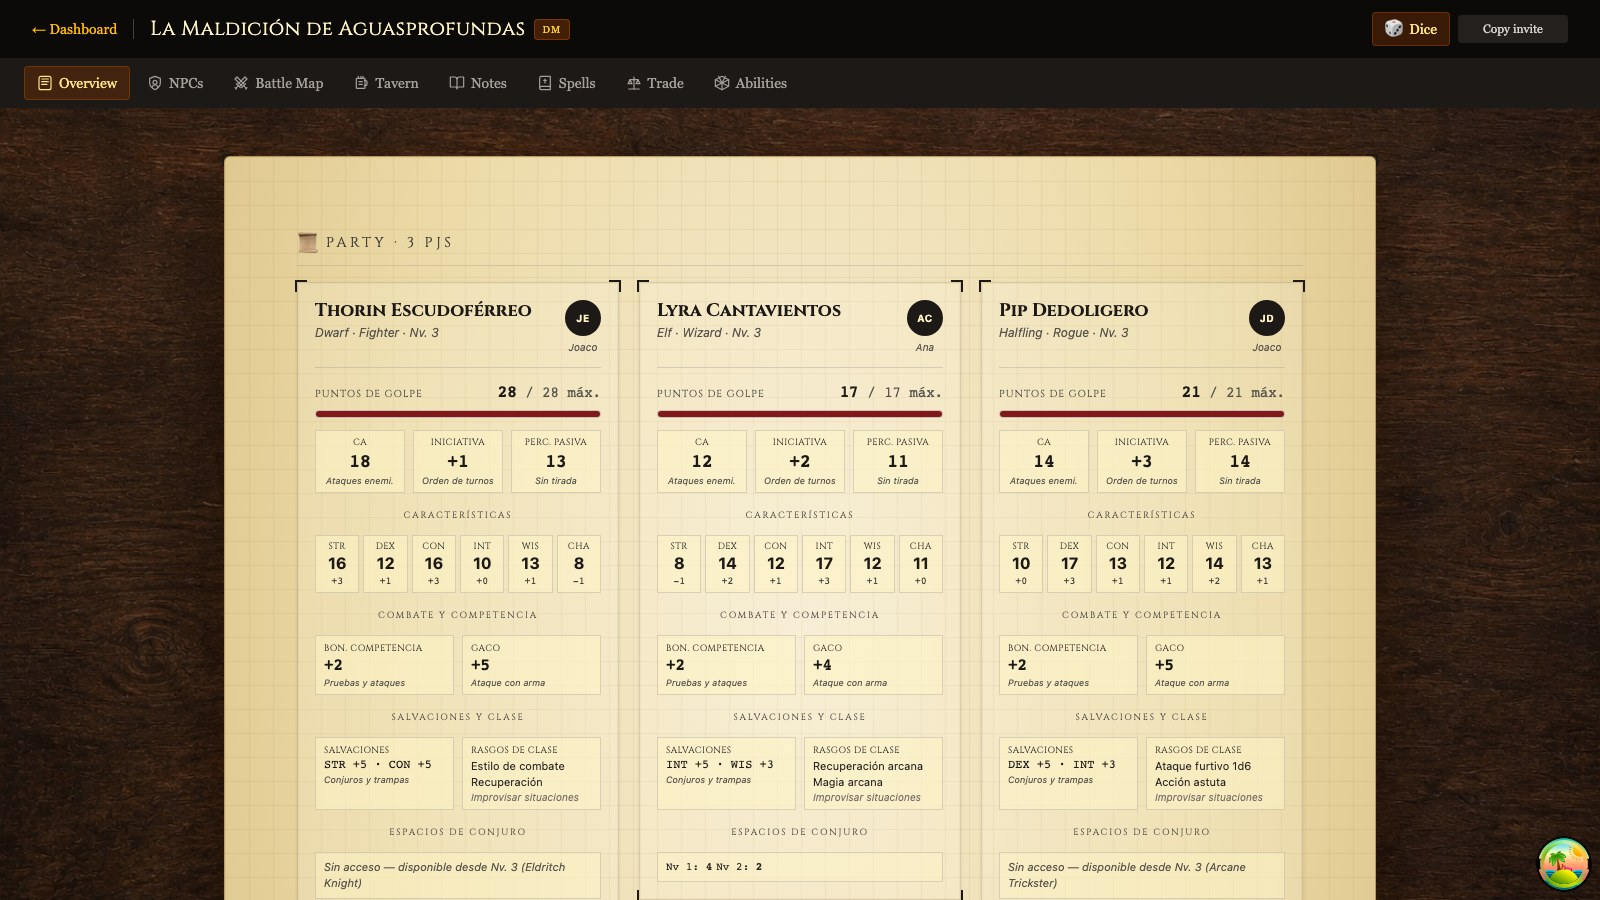
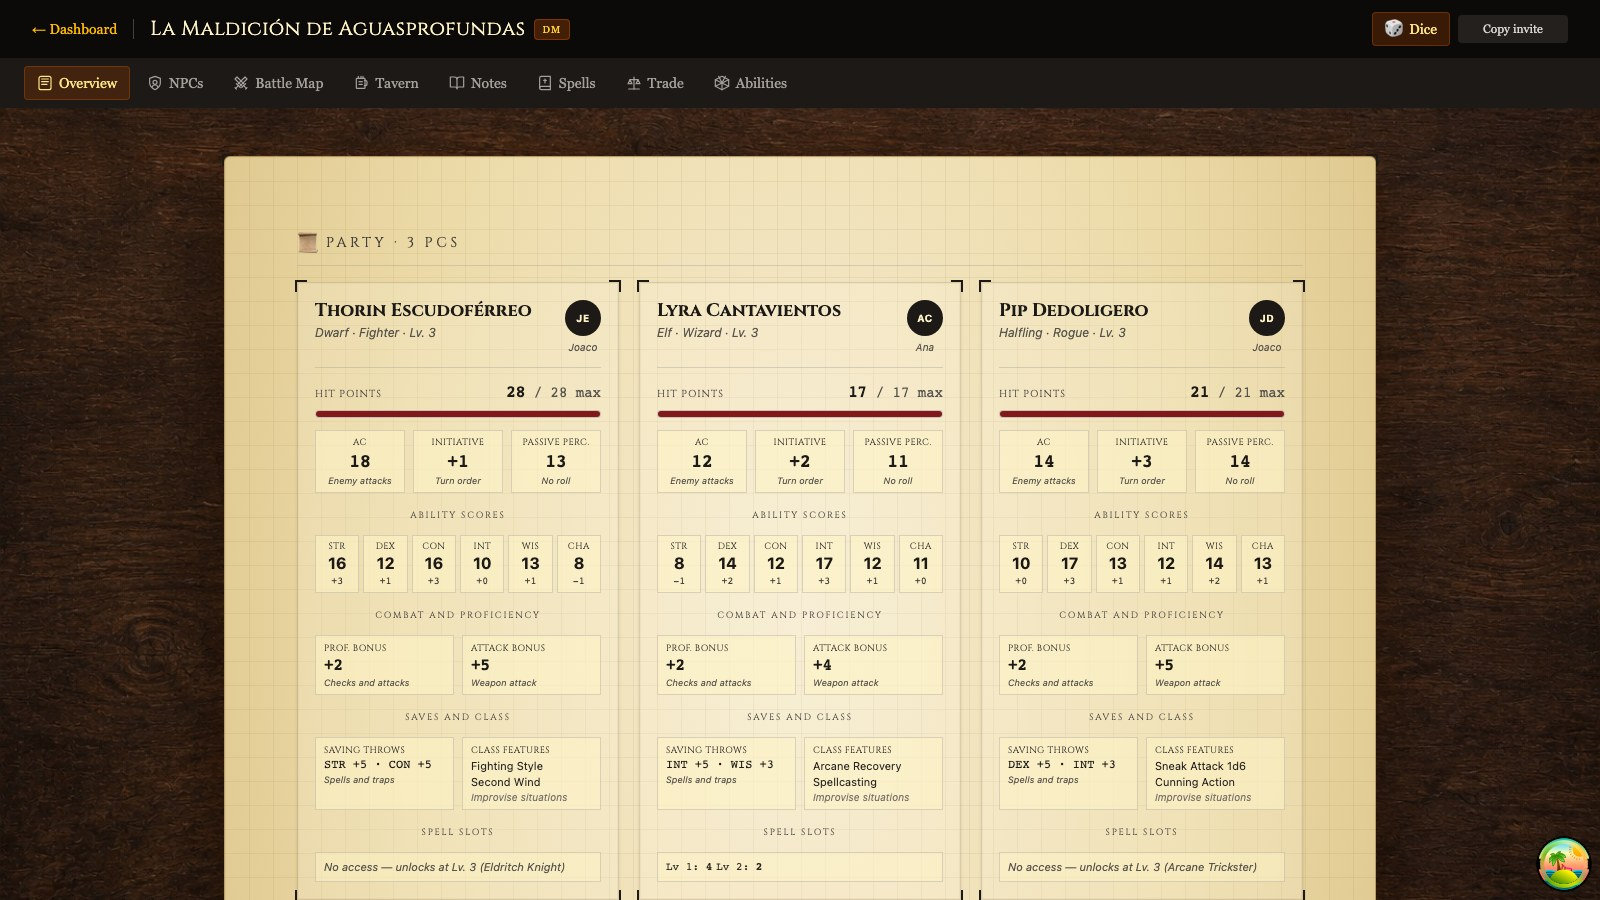
feat(i18n): traducir la vista de party de campana
Las tarjetas de party eran la pantalla mas grande que quedaba sin
traducir: puntos de golpe, CA, iniciativa, percepcion pasiva, bonos,
salvaciones, rasgos de clase y espacios de conjuro.

Los dos rasgos de nivel 1 de cada clase pasan a dnd-terms como contenido
Localized, junto a las razas y las clases.

diff --git a/src/components/campaigns/hub-cards.tsx b/src/components/campaigns/hub-cards.tsx
@@ -5,6 +5,8 @@ import { CLASS_ICONS } from '../../lib/class-meta'
 import type { Tables } from '../../lib/database.types'
 import { Frame, Divider, BlockHeader, StatBox, InfoBox } from './hub-primitives'
 import { BACKGROUNDS } from '../../lib/dnd-backgrounds'
+import { useI18n } from '../../i18n'
+import { CLASS_BASE_FEATURES, CLASS_NAMES, RACE_NAMES, localizedTerm } from '../../lib/dnd-terms'
 
 export type Character = {
   id: string
@@ -30,25 +32,10 @@ export type Character = {
 
 const STAT_KEYS = ['str', 'dex', 'con', 'int', 'wis', 'cha'] as const
 
-const CLASS_BASE_FEATURES: Record<string, string[]> = {
-  barbarian: ['Rabia', 'Defensa sin armadura'],
-  bard: ['Inspiración bárdica', 'Magia bárdica'],
-  cleric: ['Magia divina', 'Dominio divino'],
-  druid: ['Magia druídica', 'Druídico'],
-  fighter: ['Estilo de combate', 'Recuperación'],
-  monk: ['Defensa sin armadura', 'Artes marciales'],
-  paladin: ['Sentido divino', 'Imposición de manos'],
-  ranger: ['Favored Enemy', 'Natural Explorer'],
-  rogue: ['Ataque furtivo 1d6', 'Acción astuta'],
-  sorcerer: ['Hechicería', 'Magia espontánea'],
-  warlock: ['Magia de pacto', 'Patrón otherworldly'],
-  wizard: ['Recuperación arcana', 'Magia arcana'],
-}
-
-const ROLE_STYLES: Record<string, { label: string; chip: string }> = {
-  antagonist: { label: 'Antagonista', chip: 'bg-red-900/30 border-red-800/40 text-red-900' },
-  ally: { label: 'Aliado', chip: 'bg-green-900/20 border-green-800/40 text-green-900' },
-  neutral: { label: 'Neutral', chip: 'bg-stone-200 border-stone-400 text-stone-700' },
+const ROLE_STYLES: Record<string, { labelKey: 'npc.roleAntagonist' | 'npc.roleAlly' | 'npc.roleNeutral'; chip: string }> = {
+  antagonist: { labelKey: 'npc.roleAntagonist', chip: 'bg-red-900/30 border-red-800/40 text-red-900' },
+  ally: { labelKey: 'npc.roleAlly', chip: 'bg-green-900/20 border-green-800/40 text-green-900' },
+  neutral: { labelKey: 'npc.roleNeutral', chip: 'bg-stone-200 border-stone-400 text-stone-700' },
 }
 
 const abilityMod = (score: number) => Math.floor((score - 10) / 2)
@@ -56,6 +43,7 @@ const formatMod = (mod: number) => (mod >= 0 ? `+${mod}` : `${mod}`)
 const profBonusForLevel = (level: number) => Math.floor((level - 1) / 4) + 2
 
 export function PartyMemberCard({ character }: { character: Character }) {
+  const { t, locale } = useI18n()
   const { stats, level, class: cls, sheet_json: sheet } = character
   const conMod = Math.floor(((stats.con ?? 10) - 10) / 2)
   const hitDie = sheet.hit_die ?? 8
@@ -69,7 +57,7 @@ export function PartyMemberCard({ character }: { character: Character }) {
         <div className="flex items-center justify-between gap-2">
           <div>
             <h3 className="text-base font-display font-bold text-stone-900 leading-tight">{character.name}</h3>
-            <p className="text-xs italic text-stone-600 capitalize">{character.race} · {cls} · Nv. {level}</p>
+            <p className="text-xs italic text-stone-600 capitalize">{localizedTerm(RACE_NAMES, character.race, locale)} · {localizedTerm(CLASS_NAMES, cls, locale)} · {t('common.levelShort')} {level}</p>
           </div>
           <p className="text-[11px] text-stone-500 italic shrink-0">{character.profiles?.username ?? 'Jugador'}</p>
         </div>
@@ -88,6 +76,7 @@ export function PartyMemberCard({ character }: { character: Character }) {
 }
 
 export function NpcLandingCard({ npc, campaignId }: { npc: Tables<'npcs'>; campaignId: string }) {
+  const { t, locale } = useI18n()
   const stats = npc.stats as Record<string, number> | null
   const role = ROLE_STYLES[npc.role] ?? ROLE_STYLES.neutral
   const icon = npc.class ? CLASS_ICONS[npc.class] ?? '👤' : '👤'
@@ -102,7 +91,7 @@ export function NpcLandingCard({ npc, campaignId }: { npc: Tables<'npcs'>; campa
           <div className="flex items-start justify-between gap-2">
             <div className="min-w-0">
               <span className={`inline-block text-[10px] font-serif tracking-wide px-2 py-0.5 border ${role.chip} mb-1`}>
-                {role.label}
+                {t(role.labelKey)}
               </span>
               {npc.is_hidden && (
                 <span className="ml-1 inline-block text-[10px] font-serif tracking-wide px-2 py-0.5 border border-stone-700 text-stone-700 bg-stone-200 mb-1">
@@ -112,7 +101,7 @@ export function NpcLandingCard({ npc, campaignId }: { npc: Tables<'npcs'>; campa
               <h3 className="text-lg font-display font-bold text-stone-900 leading-tight truncate">{npc.name}</h3>
               {(npc.race || npc.class) && (
                 <p className="text-xs italic text-stone-600 capitalize">
-                  {[npc.race, npc.class, `Nv. ${npc.level}`].filter(Boolean).join(' · ')}
+                  {[localizedTerm(RACE_NAMES, npc.race, locale), localizedTerm(CLASS_NAMES, npc.class, locale), `${t('common.levelShort')} ${npc.level}`].filter(Boolean).join(' · ')}
                 </p>
               )}
             </div>
@@ -165,6 +154,7 @@ export function NpcLandingCard({ npc, campaignId }: { npc: Tables<'npcs'>; campa
 }
 
 export function CharacterCard({ character, isOwn }: { character: Character; isOwn: boolean }) {
+  const { t, loc, locale } = useI18n()
   const { stats, sheet_json: sheet, level, class: cls } = character
 
   const dexMod = abilityMod(stats.dex ?? 10)
@@ -221,14 +211,14 @@ export function CharacterCard({ character, isOwn }: { character: Character; isOw
             <div className="min-w-0">
               <h3 className="text-lg font-display font-bold text-stone-900 leading-tight truncate">{character.name}</h3>
               <p className="text-xs italic text-stone-600 capitalize mt-0.5">
-                {character.race} · {cls} · Nv. {level}
+                {localizedTerm(RACE_NAMES, character.race, locale)} · {localizedTerm(CLASS_NAMES, cls, locale)} · {t('common.levelShort')} {level}
               </p>
             </div>
             <div className="flex flex-col items-center shrink-0">
               <div className="w-9 h-9 rounded-full bg-stone-900 text-amber-100 flex items-center justify-center text-[10px] font-bold tracking-wider">
                 {initials}
               </div>
-              <p className="text-[10px] text-stone-600 mt-1 italic">{isOwn ? 'tu PJ' : playerName ?? 'Jugador'}</p>
+              <p className="text-[10px] text-stone-600 mt-1 italic">{isOwn ? t('party.yourCharacter') : playerName ?? t('party.player')}</p>
             </div>
           </div>
 
@@ -236,10 +226,10 @@ export function CharacterCard({ character, isOwn }: { character: Character; isOw
 
           <div>
             <div className="flex items-baseline justify-between mb-1.5">
-              <p className="text-[10px] font-display tracking-widest text-stone-600 uppercase">Puntos de Golpe</p>
+              <p className="text-[10px] font-display tracking-widest text-stone-600 uppercase">{t('party.hitPoints')}</p>
               <p className="text-sm font-mono">
                 <span className="text-base font-bold text-stone-900">{currentHp}</span>
-                <span className="text-stone-600"> / {maxHp} máx.</span>
+                <span className="text-stone-600"> / {maxHp} {t('party.max')}</span>
               </p>
             </div>
             <div className="h-2 bg-stone-300/60 rounded-sm overflow-hidden border border-stone-400/40">
@@ -251,12 +241,12 @@ export function CharacterCard({ character, isOwn }: { character: Character; isOw
           </div>
 
           <div className="grid grid-cols-3 gap-2">
-            <StatBox label="CA" value={ac} caption="Ataques enemi." />
-            <StatBox label="Iniciativa" value={formatMod(dexMod)} caption="Orden de turnos" />
-            <StatBox label="Perc. Pasiva" value={passivePerception} caption="Sin tirada" />
+            <StatBox label={t('party.ac')} value={ac} caption={t('party.acCaption')} />
+            <StatBox label={t('party.initiative')} value={formatMod(dexMod)} caption={t('party.initiativeCaption')} />
+            <StatBox label={t('party.passivePerception')} value={passivePerception} caption={t('party.passiveCaption')} />
           </div>
 
-          <BlockHeader>Características</BlockHeader>
+          <BlockHeader>{t('party.abilities')}</BlockHeader>
           <div className="grid grid-cols-6 gap-1">
             {STAT_KEYS.map(k => {
               const score = stats[k] ?? 10
@@ -271,41 +261,41 @@ export function CharacterCard({ character, isOwn }: { character: Character; isOw
             })}
           </div>
 
-          <BlockHeader>Combate y competencia</BlockHeader>
+          <BlockHeader>{t('party.combatAndProficiency')}</BlockHeader>
           <div className="grid grid-cols-2 gap-2">
-            <InfoBox label="Bon. Competencia" value={formatMod(prof)} caption="Pruebas y ataques" />
-            <InfoBox label="GACO" value={formatMod(gaco)} caption="Ataque con arma" />
+            <InfoBox label={t('party.proficiencyBonus')} value={formatMod(prof)} caption={t('party.proficiencyCaption')} />
+            <InfoBox label={t('party.attackBonus')} value={formatMod(gaco)} caption={t('party.attackCaption')} />
           </div>
 
-          <BlockHeader>Salvaciones y clase</BlockHeader>
+          <BlockHeader>{t('party.savesAndClass')}</BlockHeader>
           <div className="grid grid-cols-2 gap-2">
-            <InfoBox label="Salvaciones" value={savings || '—'} caption="Conjuros y trampas" compact />
+            <InfoBox label={t('party.saves')} value={savings || '—'} caption={t('party.savesCaption')} compact />
             <InfoBox
-              label="Rasgos de Clase"
+              label={t('party.classFeatures')}
               value={
                 <div className="space-y-0.5">
                   {classFeatures.map(f => (
-                    <p key={f} className="text-[11px] leading-tight text-stone-800">{f}</p>
+                    <p key={f.en} className="text-[11px] leading-tight text-stone-800">{loc(f)}</p>
                   ))}
-                  <p className="text-[10px] italic text-stone-500 leading-tight">Improvisar situaciones</p>
+                  <p className="text-[10px] italic text-stone-500 leading-tight">{t('party.improvise')}</p>
                 </div>
               }
               compact
             />
           </div>
 
-          <BlockHeader>Espacios de Conjuro</BlockHeader>
+          <BlockHeader>{t('party.spellSlots')}</BlockHeader>
           {firstSlotLevel === -1 ? (
             <p className="text-[11px] italic text-stone-600 bg-amber-100/50 border border-stone-400/40 px-2 py-1.5">
-              Sin acceso{cls.toLowerCase() === 'rogue' ? ' — disponible desde Nv. 3 (Arcane Trickster)' : ''}
-              {cls.toLowerCase() === 'fighter' ? ' — disponible desde Nv. 3 (Eldritch Knight)' : ''}
+              {t('party.noSlots')}{cls.toLowerCase() === 'rogue' ? t('party.unlocksAt', { subclass: 'Arcane Trickster' }) : ''}
+              {cls.toLowerCase() === 'fighter' ? t('party.unlocksAt', { subclass: 'Eldritch Knight' }) : ''}
             </p>
           ) : (
             <div className="flex flex-wrap gap-1 bg-amber-100/50 border border-stone-400/40 px-2 py-1.5">
               {slots.map((count, idx) =>
                 count > 0 ? (
                   <span key={idx} className="text-[11px] font-mono text-stone-800">
-                    Nv {idx + 1}: <span className="font-bold">{count}</span>
+                    {t('party.slotLevel', { level: idx + 1 })} <span className="font-bold">{count}</span>
                   </span>
                 ) : null
               )}

diff --git a/src/routes/_authenticated/campaigns/$campaignId.index.tsx b/src/routes/_authenticated/campaigns/$campaignId.index.tsx
@@ -4,6 +4,7 @@ import type { Session } from '@supabase/supabase-js'
 import { supabase } from '../../../lib/supabase'
 import { Corner, SectionHeader, AddSlot } from '../../../components/campaigns/hub-primitives'
 import { type Character, CharacterCard, NpcLandingCard, PartyMemberCard } from '../../../components/campaigns/hub-cards'
+import { useT } from '../../../i18n'
 
 export const Route = createFileRoute('/_authenticated/campaigns/$campaignId/')({
   component: CampaignHubLanding,
@@ -67,21 +68,22 @@ function CampaignHubLanding() {
 }
 
 function GmView({ campaignId, characters, npcs }: { campaignId: string; characters: Character[]; npcs: any[] }) {
+  const t = useT()
   return (
     <main className="max-w-6xl mx-auto px-4 sm:px-8 py-8 space-y-10">
       <section>
-        <SectionHeader icon="📜" label={`Party · ${characters.length} PJ${characters.length !== 1 ? 's' : ''}`} />
+        <SectionHeader icon="📜" label={t('party.title', { count: characters.length })} />
         <div className="grid grid-cols-1 md:grid-cols-2 lg:grid-cols-3 gap-5">
           {characters.map(c => <CharacterCard key={c.id} character={c} isOwn={false} />)}
-          <AddSlot label="+ agregar personaje" hint="Compartí el invite con tu party" />
+          <AddSlot label={t('party.addCharacter')} hint="Compartí el invite con tu party" />
         </div>
       </section>
 
       <section>
-        <SectionHeader icon="😈" label={`PNJs · ${npcs.length}`} />
+        <SectionHeader icon="😈" label={t('party.npcs', { count: npcs.length })} />
         <div className="grid grid-cols-1 md:grid-cols-2 lg:grid-cols-3 gap-5">
           {npcs.map((npc: any) => <NpcLandingCard key={npc.id} npc={npc} campaignId={campaignId} />)}
-          <AddSlot label="+ generar PNJ" hint="Crea antagonistas, aliados y neutrales" to="/campaigns/$campaignId/pnj" params={{ campaignId }} />
+          <AddSlot label={t('party.generateNpc')} hint="Crea antagonistas, aliados y neutrales" to="/campaigns/$campaignId/pnj" params={{ campaignId }} />
         </div>
       </section>
     </main>
@@ -89,6 +91,7 @@ function GmView({ campaignId, characters, npcs }: { campaignId: string; characte
 }
 
 function PlayerView({ campaignId: _campaignId, characters, userId }: { campaignId: string; characters: Character[]; userId: string }) {
+  const t = useT()
   const myCharacter = characters.find(c => c.user_id === userId)
   const partyMembers = characters.filter(c => c.user_id !== userId)
 
@@ -96,13 +99,13 @@ function PlayerView({ campaignId: _campaignId, characters, userId }: { campaignI
     <main className="max-w-5xl mx-auto px-4 sm:px-8 py-8">
       <div className="flex gap-8 items-start">
         <div className="flex-1 min-w-0">
-          <SectionHeader icon="🧙" label="Mi Personaje" />
+          <SectionHeader icon="🧙" label={t('party.myCharacter')} />
           {myCharacter
             ? <CharacterCard character={myCharacter} isOwn />
             : (
               <div className="border-2 border-dashed border-stone-500/40 flex flex-col items-center justify-center min-h-[120px] text-center px-4 py-8">
-                <p className="text-sm italic font-serif text-stone-700">Todavía no tenés un personaje en esta campaña</p>
-                <p className="text-xs text-stone-500 mt-1.5">Pedile al DM que te comparta el invite</p>
+                <p className="text-sm italic font-serif text-stone-700">{t('party.noCharacter')}</p>
+                <p className="text-xs text-stone-500 mt-1.5">{t('party.askDmForInvite')}</p>
               </div>
             )
           }
@@ -110,7 +113,7 @@ function PlayerView({ campaignId: _campaignId, characters, userId }: { campaignI
 
         {partyMembers.length > 0 && (
           <div className="w-64 shrink-0">
-            <SectionHeader icon="📜" label={`Party · ${partyMembers.length}`} />
+            <SectionHeader icon="📜" label={t('party.title', { count: partyMembers.length })} />
             <div className="flex flex-col gap-3">
               {partyMembers.map(c => <PartyMemberCard key={c.id} character={c} />)}
             </div>

diff --git a/src/lib/dnd-terms.ts b/src/lib/dnd-terms.ts
@@ -65,6 +65,22 @@ export const CLASS_NAMES: Record<string, Localized> = {
   wizard: { es: 'Mago', en: 'Wizard' },
 }
 
+/** Los dos rasgos de nivel 1 de cada clase, para la vista rápida de party. */
+export const CLASS_BASE_FEATURES: Record<string, Localized[]> = {
+  barbarian: [{ es: 'Furia', en: 'Rage' }, { es: 'Defensa sin armadura', en: 'Unarmored Defense' }],
+  bard: [{ es: 'Inspiración bárdica', en: 'Bardic Inspiration' }, { es: 'Magia bárdica', en: 'Spellcasting' }],
+  cleric: [{ es: 'Magia divina', en: 'Spellcasting' }, { es: 'Dominio divino', en: 'Divine Domain' }],
+  druid: [{ es: 'Magia druídica', en: 'Spellcasting' }, { es: 'Druídico', en: 'Druidic' }],
+  fighter: [{ es: 'Estilo de combate', en: 'Fighting Style' }, { es: 'Recuperación', en: 'Second Wind' }],
+  monk: [{ es: 'Defensa sin armadura', en: 'Unarmored Defense' }, { es: 'Artes marciales', en: 'Martial Arts' }],
+  paladin: [{ es: 'Sentido divino', en: 'Divine Sense' }, { es: 'Imposición de manos', en: 'Lay on Hands' }],
+  ranger: [{ es: 'Enemigo predilecto', en: 'Favored Enemy' }, { es: 'Explorador natural', en: 'Natural Explorer' }],
+  rogue: [{ es: 'Ataque furtivo 1d6', en: 'Sneak Attack 1d6' }, { es: 'Acción astuta', en: 'Cunning Action' }],
+  sorcerer: [{ es: 'Hechicería', en: 'Spellcasting' }, { es: 'Origen de hechicería', en: 'Sorcerous Origin' }],
+  warlock: [{ es: 'Magia de pacto', en: 'Pact Magic' }, { es: 'Patrón de otro mundo', en: 'Otherworldly Patron' }],
+  wizard: [{ es: 'Recuperación arcana', en: 'Arcane Recovery' }, { es: 'Magia arcana', en: 'Spellcasting' }],
+}
+
 /**
  * Resuelve un nombre de raza o clase que puede venir como índice del SRD
  * (`half-orc`), como nombre ya formateado (`Half-Orc`) o como algo que no está

diff --git a/src/i18n/es.ts b/src/i18n/es.ts
@@ -463,6 +463,40 @@ export const es = {
   'npc.dmNotesLabel': 'Notas del DM (privadas):',
   'npc.confirmDelete': '¿Eliminar?',
   'npc.empty': 'Todavía no creaste ningún PNJ.',
+
+  'party.title': 'Party · {count} PJ',
+  'party.title_other': 'Party · {count} PJs',
+  'party.hitPoints': 'Puntos de golpe',
+  'party.max': 'máx.',
+  'party.ac': 'CA',
+  'party.acCaption': 'Ataques enemigos',
+  'party.initiative': 'Iniciativa',
+  'party.initiativeCaption': 'Orden de turnos',
+  'party.passivePerception': 'Perc. pasiva',
+  'party.passiveCaption': 'Sin tirada',
+  'party.abilities': 'Características',
+  'party.combatAndProficiency': 'Combate y competencia',
+  'party.proficiencyBonus': 'Bon. competencia',
+  'party.proficiencyCaption': 'Pruebas y ataques',
+  'party.attackBonus': 'GACO',
+  'party.attackCaption': 'Ataque con arma',
+  'party.savesAndClass': 'Salvaciones y clase',
+  'party.saves': 'Salvaciones',
+  'party.savesCaption': 'Conjuros y trampas',
+  'party.classFeatures': 'Rasgos de clase',
+  'party.improvise': 'Improvisar situaciones',
+  'party.spellSlots': 'Espacios de conjuro',
+  'party.noSlots': 'Sin acceso',
+  'party.unlocksAt': ' — disponible desde Nv. 3 ({subclass})',
+  'party.slotLevel': 'Nv {level}:',
+  'party.yourCharacter': 'tu PJ',
+  'party.player': 'Jugador',
+  'party.npcs': 'PNJs · {count}',
+  'party.addCharacter': '+ agregar personaje',
+  'party.generateNpc': '+ generar PNJ',
+  'party.myCharacter': 'Mi personaje',
+  'party.noCharacter': 'Todavía no tenés un personaje en esta campaña',
+  'party.askDmForInvite': 'Pedile al DM que te comparta el invite',
   'npc.generate': 'Generar PNJ',
   'npc.editTitle': 'Editar PNJ',
   'npc.noClass': '— ninguna —',

diff --git a/src/i18n/en.ts b/src/i18n/en.ts
@@ -462,6 +462,40 @@ export const en: Record<TranslationKey, string> = {
   'npc.dmNotesLabel': "DM's notes (private):",
   'npc.confirmDelete': 'Delete?',
   'npc.empty': "You haven't created any NPCs yet.",
+
+  'party.title': 'Party · {count} PC',
+  'party.title_other': 'Party · {count} PCs',
+  'party.hitPoints': 'Hit points',
+  'party.max': 'max',
+  'party.ac': 'AC',
+  'party.acCaption': 'Enemy attacks',
+  'party.initiative': 'Initiative',
+  'party.initiativeCaption': 'Turn order',
+  'party.passivePerception': 'Passive Perc.',
+  'party.passiveCaption': 'No roll',
+  'party.abilities': 'Ability scores',
+  'party.combatAndProficiency': 'Combat and proficiency',
+  'party.proficiencyBonus': 'Prof. bonus',
+  'party.proficiencyCaption': 'Checks and attacks',
+  'party.attackBonus': 'Attack bonus',
+  'party.attackCaption': 'Weapon attack',
+  'party.savesAndClass': 'Saves and class',
+  'party.saves': 'Saving throws',
+  'party.savesCaption': 'Spells and traps',
+  'party.classFeatures': 'Class features',
+  'party.improvise': 'Improvise situations',
+  'party.spellSlots': 'Spell slots',
+  'party.noSlots': 'No access',
+  'party.unlocksAt': ' — unlocks at Lv. 3 ({subclass})',
+  'party.slotLevel': 'Lv {level}:',
+  'party.yourCharacter': 'your PC',
+  'party.player': 'Player',
+  'party.npcs': 'NPCs · {count}',
+  'party.addCharacter': '+ add character',
+  'party.generateNpc': '+ generate NPC',
+  'party.myCharacter': 'My character',
+  'party.noCharacter': "You don't have a character in this campaign yet",
+  'party.askDmForInvite': 'Ask the DM to share the invite link',
   'npc.generate': 'Generate NPC',
   'npc.editTitle': 'Edit NPC',
   'npc.noClass': '— none —',
